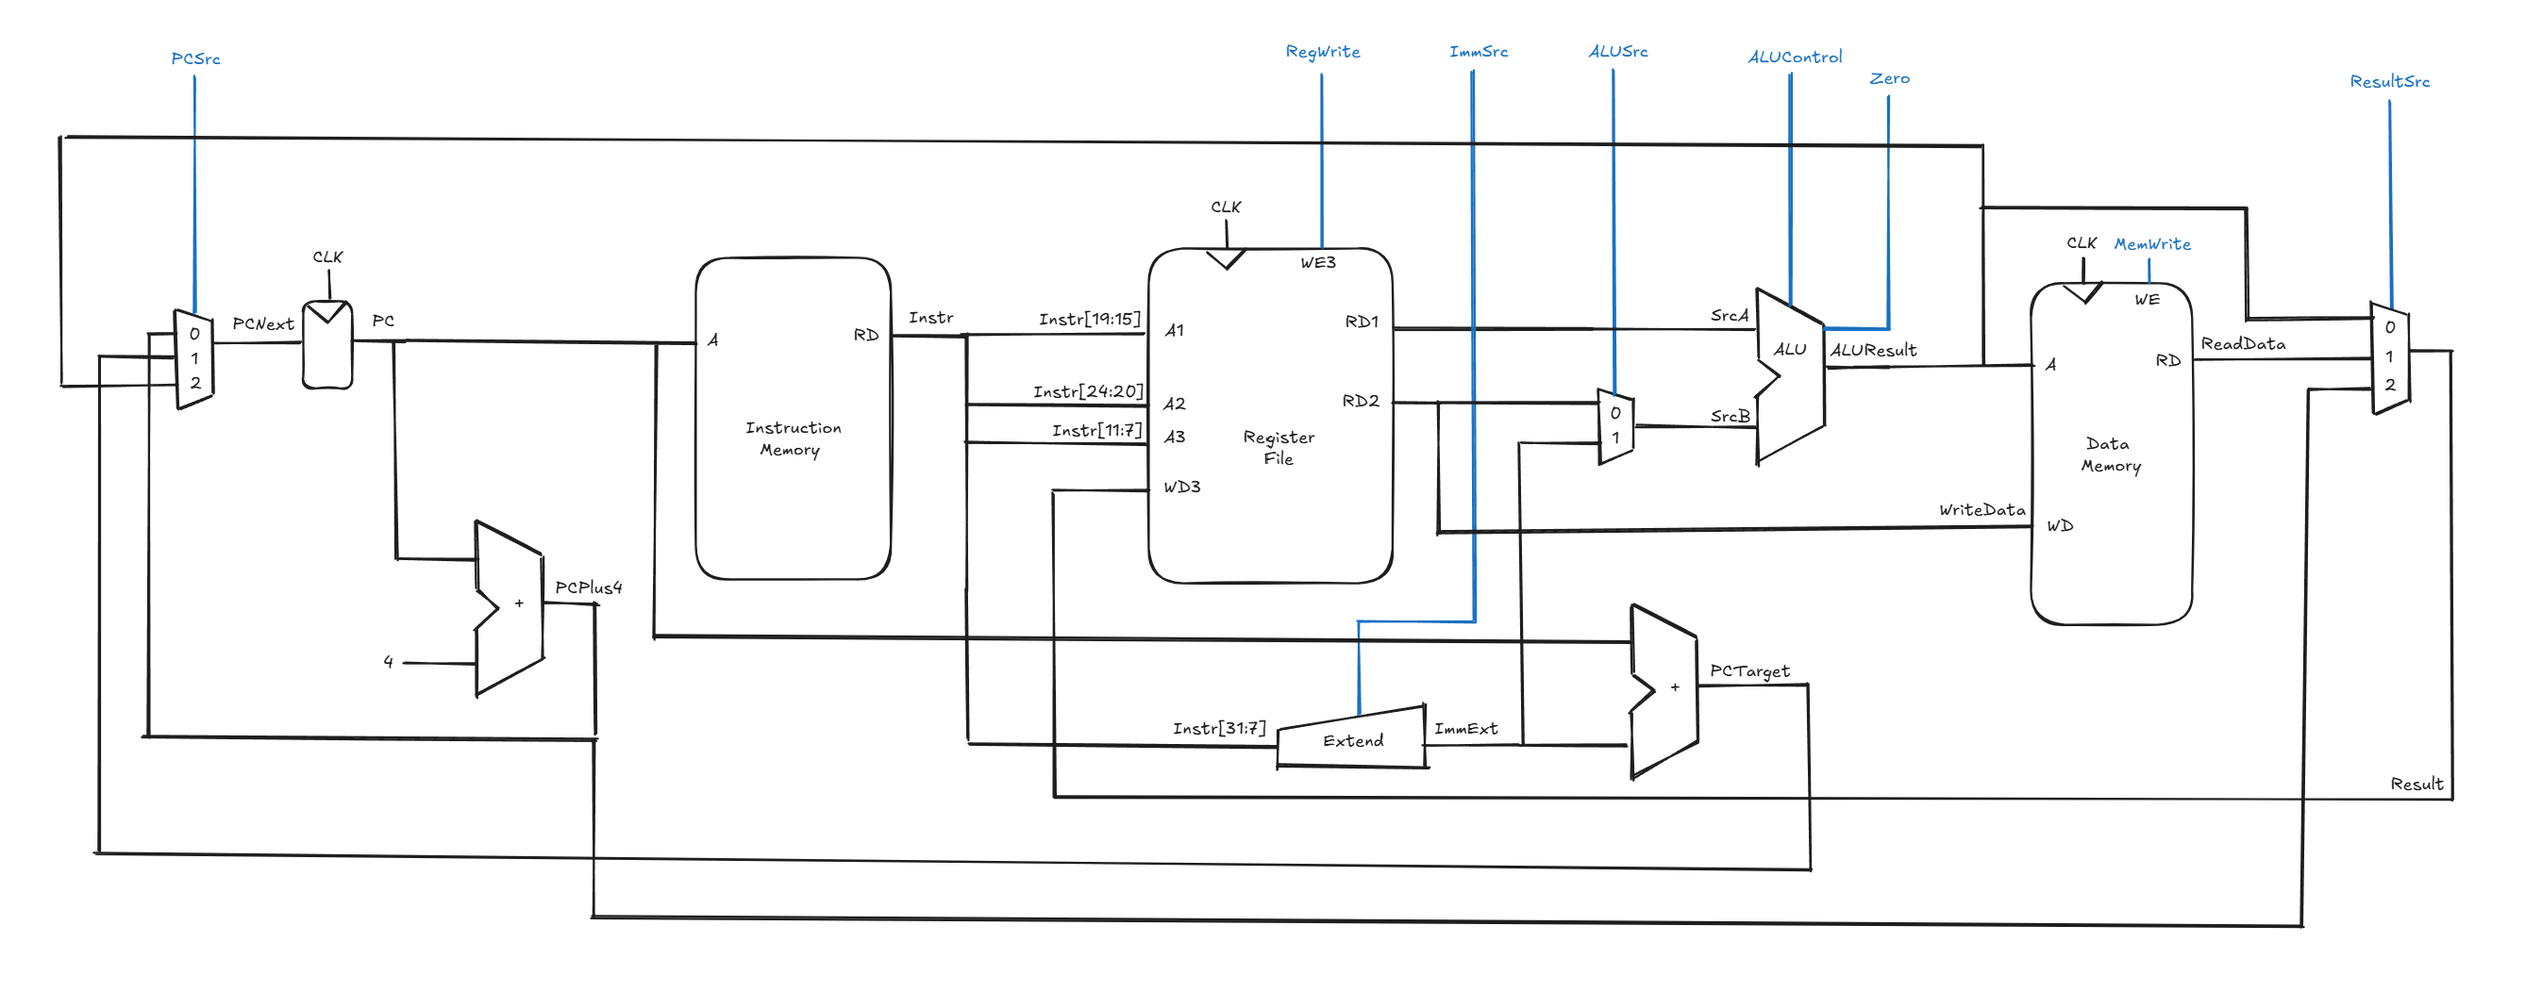
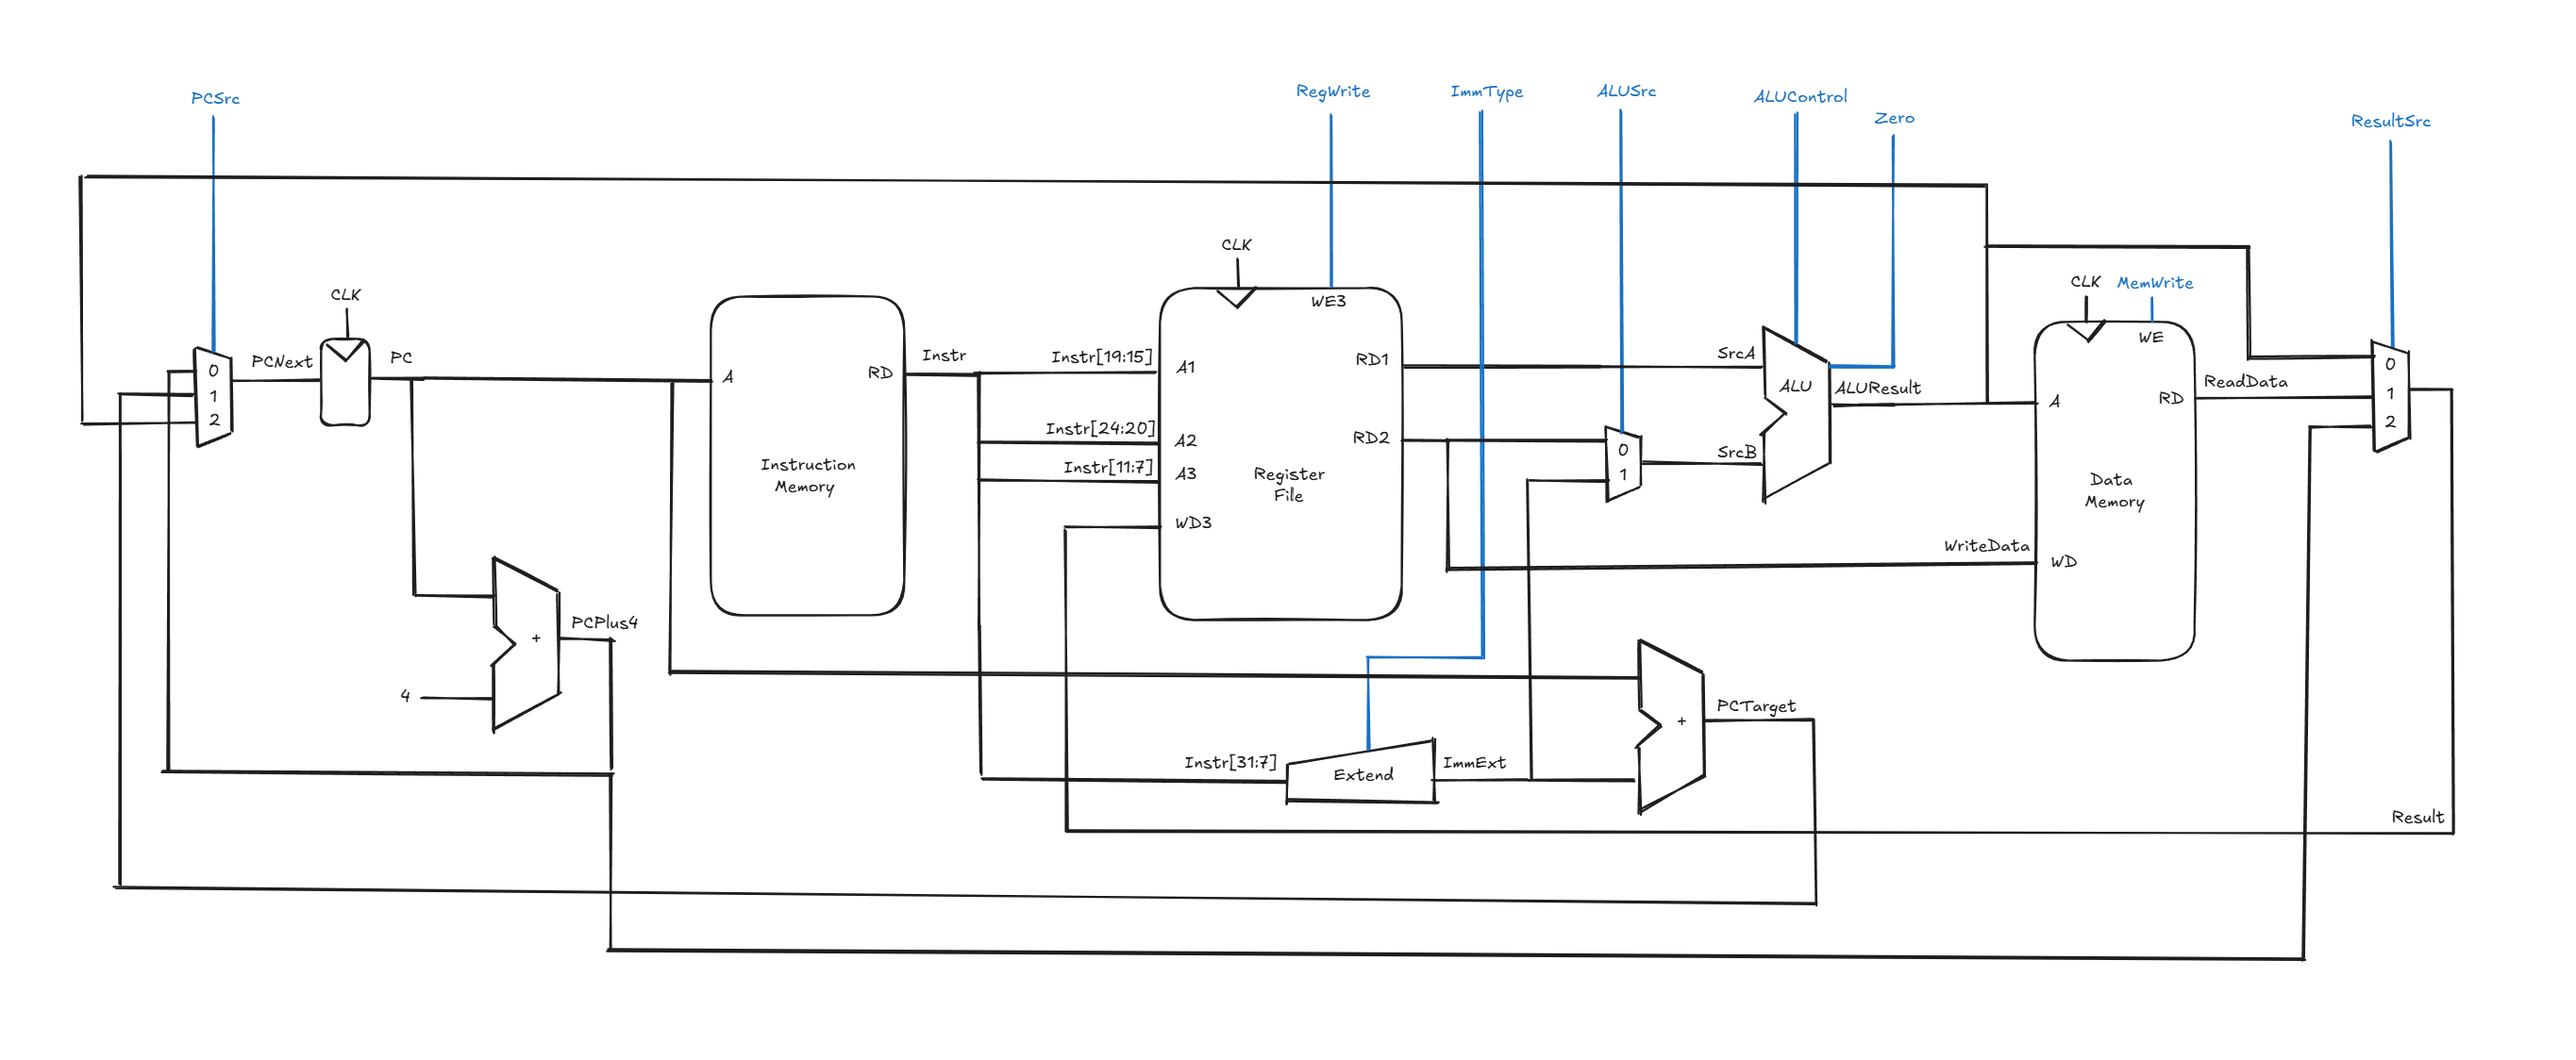
docs(README.md): finalize file content

diff --git a/README.md b/README.md
@@ -29,9 +29,8 @@ cd risc-v-processor-single
 ### Processor Capabilities
 - Integer arithmetic
 - Memory access
-- Control logic
+- Branching and jumps
 - Immediate instructions
-- Turing complete
 
 ### Instruction Set
 |  Type  |              Instructions             |
